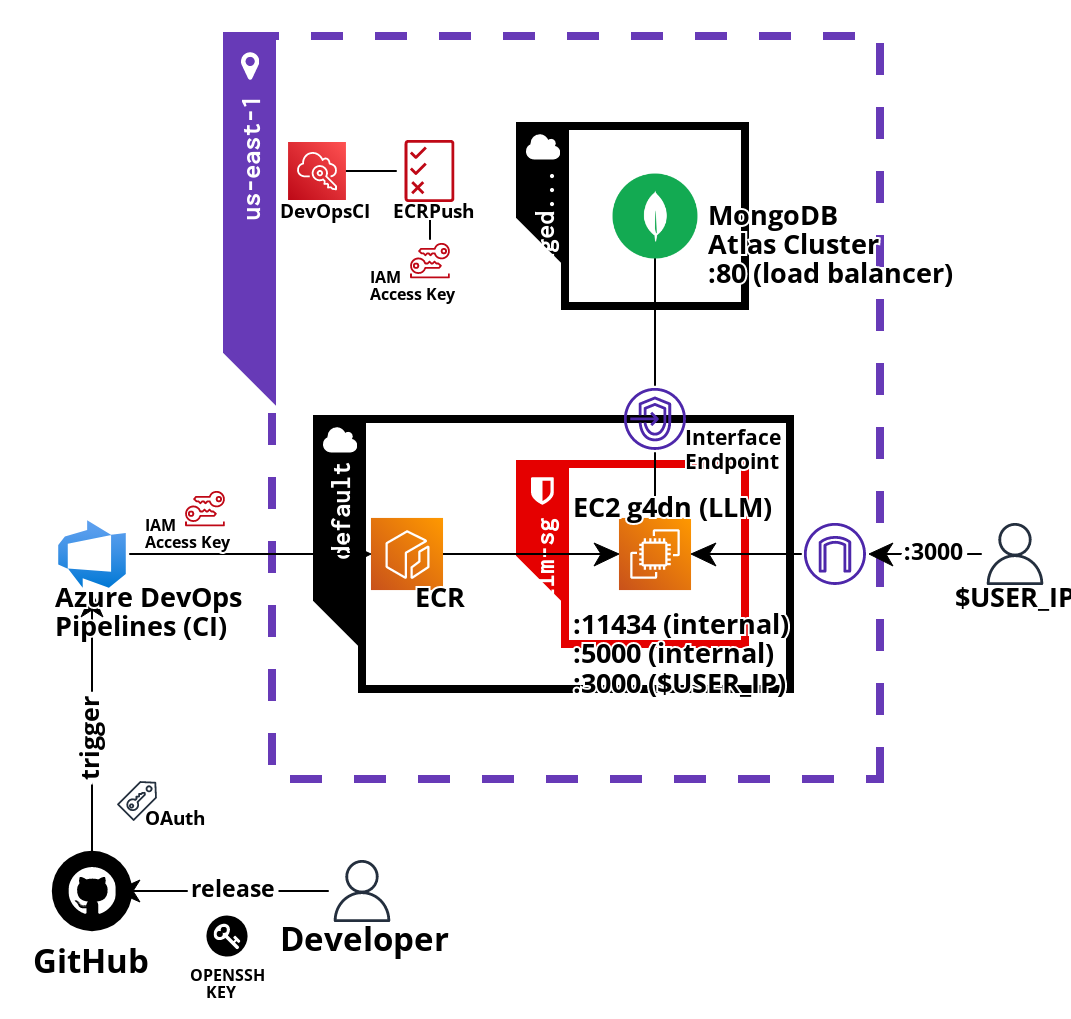
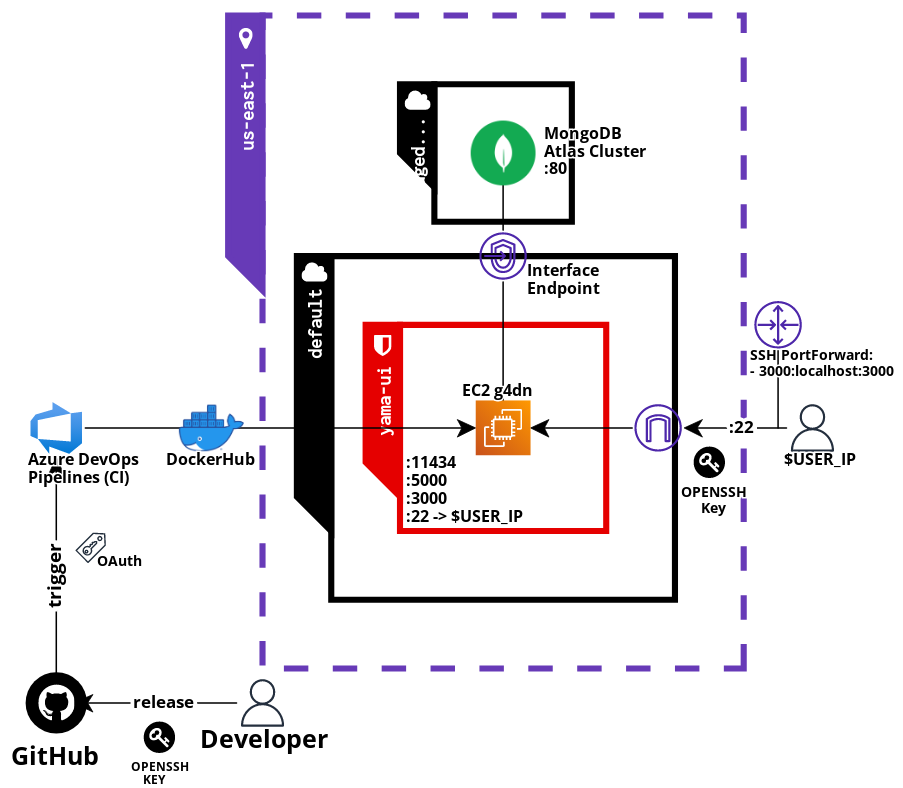
feat: migrating to port-forward instead of expose frontend port

diff --git a/README.md b/README.md
@@ -59,13 +59,20 @@ docker compose up
     2. > $ aws-vault exec \<PROFILE\>
 - MongoDB Server
     > You can start free with [MongoDB Atlas Free Cluster](https://www.mongodb.com/lp/cloud/atlas/try4?utm_source=google&utm_campaign=search_gs_pl_evergreen_atlas_core_retarget-brand_gic-null_amers-all_ps-all_desktop_eng_lead&utm_term=mongodb%20atlas%20free&utm_medium=cpc_paid_search&utm_ad=e&utm_ad_campaign_id=14412646314&adgroup=131761122132&cq_cmp=14412646314&gad_source=1&gclid=Cj0KCQjwhb60BhClARIsABGGtw8Td5VN-RcXBIjasm-NPR_fWlqRqnDxAyhMQzQANuFbT-un3dhEW7UaAu4LEALw_wcB)
-1. Edit the .env `DBConnection` file to match with your MongoDB Server (I am using MongoDB Atlas)
+1. Open the `.env` file, edit the `DBConnection` file to match with your MongoDB Server (I am using MongoDB Atlas)
 ```bash
 # .env
 DBConnection="mongodb+srv://<USER>:<PASSWORD>@<ACCOUNT>.<SHARD>.mongodb.net"
 DBName="yamaui"
 ```
-2. With aws credentials configured, run
+2. Open the `locals.tf`, edit the `key_name` to match with your EC2 Key Pair.
+```hcl
+locals {
+  key_name = "YOUR_KEY_NAME"
+}
+```
+
+3. With aws credentials configured, run
 ```bash
 terraform init
 terraform apply
